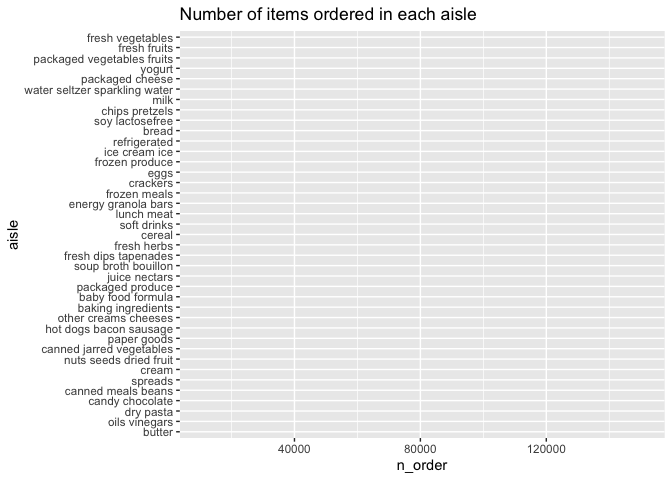
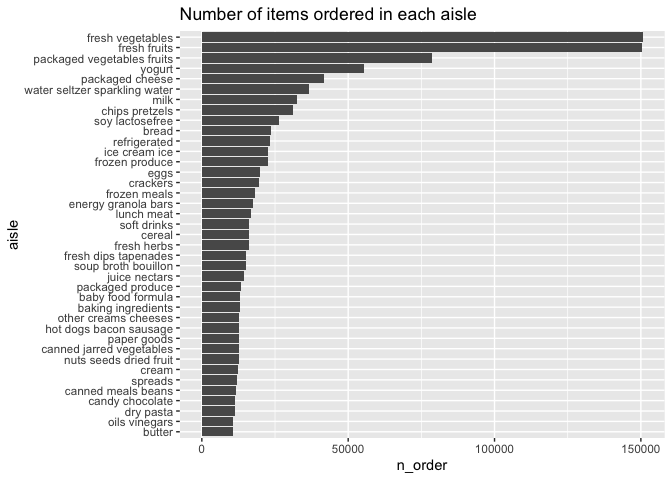
problem 2 data cleaned

diff --git a/p8105_hw3_xt2288.md b/p8105_hw3_xt2288.md
@@ -1,6 +1,6 @@
 p8105_hw3_xt2288
 ================
-2023-10-07
+2023-10-08
 
 ``` r
 library(tidyverse)
@@ -76,18 +76,11 @@ instacart |>
     title = "Number of items ordered in each aisle",
     xlab = "Number of items ordered",
     ylab = "Aisle"
-  )
-```
-
-![](p8105_hw3_xt2288_files/figure-gfm/unnamed-chunk-4-1.png)<!-- -->
-
-``` r
+  ) +
     geom_col()
 ```
 
-    ## geom_col: just = 0.5, width = NULL, na.rm = FALSE
-    ## stat_identity: na.rm = FALSE
-    ## position_stack
+![](p8105_hw3_xt2288_files/figure-gfm/unnamed-chunk-4-1.png)<!-- -->
 
 - Make a table showing the three most popular items in each of the
   aisles “baking ingredients”, “dog food care”, and “packaged vegetables
@@ -144,3 +137,34 @@ instacart |>
     ## 5         4               15.2               11.6
     ## 6         5               12.3               12.8
     ## 7         6               13.8               11.9
+
+## Problem 2
+
+``` r
+data("brfss_smart2010")
+```
+
+data cleaning *format the data to use appropriate variable names?*
+
+``` r
+brfss_clean = brfss_smart2010 |>
+  janitor::clean_names() |>
+  filter(topic == "Overall Health") |>
+  mutate(
+    response = factor(response, levels=c("Poor","Fair","Good", "Very good","Excellent"))
+  )
+```
+
+- In 2002, which states were observed at 7 or more locations? What about
+  in 2010?
+
+- Construct a dataset that is limited to Excellent responses, and
+  contains, year, state, and a variable that averages the data_value
+  across locations within a state. Make a “spaghetti” plot of this
+  average value over time within a state (that is, make a plot showing a
+  line for each state across years – the geom_line geometry and group
+  aesthetic will help).
+
+- Make a two-panel plot showing, for the years 2006, and 2010,
+  distribution of data_value for responses (“Poor” to “Excellent”) among
+  locations in NY State.
